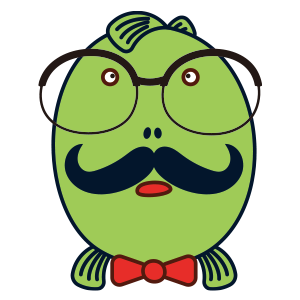
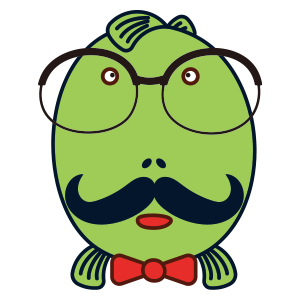
Site updated: 2022-08-09 19:37:23

diff --git a/index.html b/index.html
@@ -91,7 +91,9 @@
 			</div>
 			<div class="col-6">
 				<div class="d-flex justify-content-center">
-					<img class="w-75 h-auto lazyload" data-src="/images/genius.png" alt="大聪明">
+					<div class="w-75">
+						<img class="w-100 lazyload" data-src="/images/genius.png" alt="大聪明">
+					</div>
 				</div>
 			</div>
 		</div>
@@ -112,12 +114,12 @@
         
           <div class="col-3">
             <div class="card rounded bg-white">
-              <a href="//duoyu.wang">
+              <a target="_blank" rel="noopener" href="//wusheji.net/tobase64/">
                 <img class="card-img lazyload" data-src="/you/screenshots/to_base64.png" alt="">
               </a>
               <div class="card-body">
                 <h5 class="card-title">
-                  <a href="//duoyu.wang">
+                  <a target="_blank" rel="noopener" href="//wusheji.net/tobase64/">
                     To Base64
                   </a>
                 </h5>
@@ -141,6 +143,42 @@
                 </h5>
                 <div class="card-text text-gray">
                   企业免费建站主题
+                </div>
+              </div>
+            </div>
+          </div>
+        
+          <div class="col-3">
+            <div class="card rounded bg-white">
+              <a target="_blank" rel="noopener" href="//wusheji.net/colors/">
+                <img class="card-img lazyload" data-src="/you/screenshots/nice_colors.png" alt="">
+              </a>
+              <div class="card-body">
+                <h5 class="card-title">
+                  <a target="_blank" rel="noopener" href="//wusheji.net/colors/">
+                    Nice colors
+                  </a>
+                </h5>
+                <div class="card-text text-gray">
+                  Hopefully these colors will give you some inspiration.
+                </div>
+              </div>
+            </div>
+          </div>
+        
+          <div class="col-3">
+            <div class="card rounded bg-white">
+              <a target="_blank" rel="noopener" href="//wusheji.net/eatwhat/">
+                <img class="card-img lazyload" data-src="/you/screenshots/eatwhat.png" alt="">
+              </a>
+              <div class="card-body">
+                <h5 class="card-title">
+                  <a target="_blank" rel="noopener" href="//wusheji.net/eatwhat/">
+                    今天吃什么
+                  </a>
+                </h5>
+                <div class="card-text text-gray">
+                  解决上班族世纪难题，吃什么不用愁！
                 </div>
               </div>
             </div>

diff --git a/you/index.html b/you/index.html
@@ -91,12 +91,12 @@
     
       <div class="col-3">
   <div class="card rounded">
-    <a href="//duoyu.wang">
+    <a target="_blank" rel="noopener" href="//wusheji.net/tobase64/">
       <img class="card-img lazyload" data-src="/you/screenshots/to_base64.png" alt="">
     </a>
     <div class="card-body bg-light">
       <h5 class="card-title">
-        <a href="//duoyu.wang">
+        <a target="_blank" rel="noopener" href="//wusheji.net/tobase64/">
           To Base64
         </a>
       </h5>
@@ -120,6 +120,42 @@
       </h5>
       <div class="card-text text-gray">
         企业免费建站主题
+      </div>
+    </div>
+  </div>
+</div>
+    
+      <div class="col-3">
+  <div class="card rounded">
+    <a target="_blank" rel="noopener" href="//wusheji.net/colors/">
+      <img class="card-img lazyload" data-src="/you/screenshots/nice_colors.png" alt="">
+    </a>
+    <div class="card-body bg-light">
+      <h5 class="card-title">
+        <a target="_blank" rel="noopener" href="//wusheji.net/colors/">
+          Nice colors
+        </a>
+      </h5>
+      <div class="card-text text-gray">
+        Hopefully these colors will give you some inspiration.
+      </div>
+    </div>
+  </div>
+</div>
+    
+      <div class="col-3">
+  <div class="card rounded">
+    <a target="_blank" rel="noopener" href="//wusheji.net/eatwhat/">
+      <img class="card-img lazyload" data-src="/you/screenshots/eatwhat.png" alt="">
+    </a>
+    <div class="card-body bg-light">
+      <h5 class="card-title">
+        <a target="_blank" rel="noopener" href="//wusheji.net/eatwhat/">
+          今天吃什么
+        </a>
+      </h5>
+      <div class="card-text text-gray">
+        解决上班族世纪难题，吃什么不用愁！
       </div>
     </div>
   </div>

diff --git a/archives/2012/12/index.html b/archives/2012/12/index.html
@@ -106,7 +106,7 @@
       
   
     
-        <a class="card-img-link" href="/2012/12/21/yueyanglouji/" rel="gallery_cl6knh3460006b6wbb4acb4ca">
+        <a class="card-img-link" href="/2012/12/21/yueyanglouji/" rel="gallery_cl6m3yew20009r4u174ac7x04">
           <img class="card-img lazyload" data-src="/images/sample/mydesk.png" itemprop="image" alt="gallery">
         </a>
        
@@ -143,7 +143,7 @@
       
   
     
-        <a class="card-img-link" href="/2012/12/21/xiaoyaoyou/" rel="gallery_cl6knh3440005b6wb5amt7nfg">
+        <a class="card-img-link" href="/2012/12/21/xiaoyaoyou/" rel="gallery_cl6m3yew10008r4u1b0ppbtpn">
           <img class="card-img lazyload" data-src="/images/sample/mydesk.png" itemprop="image" alt="gallery">
         </a>
        
@@ -180,7 +180,7 @@
       
   
     
-        <a class="card-img-link" href="/2012/12/21/tengwanggexu/" rel="gallery_cl6knh3410003b6wb3pfdb25n">
+        <a class="card-img-link" href="/2012/12/21/tengwanggexu/" rel="gallery_cl6m3yevw0003r4u18he4cgc8">
           <img class="card-img lazyload" data-src="/images/sample/mydesk.png" itemprop="image" alt="gallery">
         </a>
        
@@ -217,7 +217,7 @@
       
   
     
-        <a class="card-img-link" href="/2012/12/21/lantingjixu/" rel="gallery_cl6knh33x0001b6wbe46v1pcd">
+        <a class="card-img-link" href="/2012/12/21/lantingjixu/" rel="gallery_cl6m3yevs0001r4u180936nlq">
           <img class="card-img lazyload" data-src="/images/sample/mydesk.png" itemprop="image" alt="gallery">
         </a>
        

diff --git a/archives/2012/index.html b/archives/2012/index.html
@@ -106,7 +106,7 @@
       
   
     
-        <a class="card-img-link" href="/2012/12/21/yueyanglouji/" rel="gallery_cl6knh3460006b6wbb4acb4ca">
+        <a class="card-img-link" href="/2012/12/21/yueyanglouji/" rel="gallery_cl6m3yew20009r4u174ac7x04">
           <img class="card-img lazyload" data-src="/images/sample/mydesk.png" itemprop="image" alt="gallery">
         </a>
        
@@ -143,7 +143,7 @@
       
   
     
-        <a class="card-img-link" href="/2012/12/21/xiaoyaoyou/" rel="gallery_cl6knh3440005b6wb5amt7nfg">
+        <a class="card-img-link" href="/2012/12/21/xiaoyaoyou/" rel="gallery_cl6m3yew10008r4u1b0ppbtpn">
           <img class="card-img lazyload" data-src="/images/sample/mydesk.png" itemprop="image" alt="gallery">
         </a>
        
@@ -180,7 +180,7 @@
       
   
     
-        <a class="card-img-link" href="/2012/12/21/tengwanggexu/" rel="gallery_cl6knh3410003b6wb3pfdb25n">
+        <a class="card-img-link" href="/2012/12/21/tengwanggexu/" rel="gallery_cl6m3yevw0003r4u18he4cgc8">
           <img class="card-img lazyload" data-src="/images/sample/mydesk.png" itemprop="image" alt="gallery">
         </a>
        
@@ -217,7 +217,7 @@
       
   
     
-        <a class="card-img-link" href="/2012/12/21/lantingjixu/" rel="gallery_cl6knh33x0001b6wbe46v1pcd">
+        <a class="card-img-link" href="/2012/12/21/lantingjixu/" rel="gallery_cl6m3yevs0001r4u180936nlq">
           <img class="card-img lazyload" data-src="/images/sample/mydesk.png" itemprop="image" alt="gallery">
         </a>
        

diff --git a/archives/index.html b/archives/index.html
@@ -106,7 +106,7 @@
       
   
     
-        <a class="card-img-link" href="/2012/12/21/yueyanglouji/" rel="gallery_cl6knh3460006b6wbb4acb4ca">
+        <a class="card-img-link" href="/2012/12/21/yueyanglouji/" rel="gallery_cl6m3yew20009r4u174ac7x04">
           <img class="card-img lazyload" data-src="/images/sample/mydesk.png" itemprop="image" alt="gallery">
         </a>
        
@@ -143,7 +143,7 @@
       
   
     
-        <a class="card-img-link" href="/2012/12/21/xiaoyaoyou/" rel="gallery_cl6knh3440005b6wb5amt7nfg">
+        <a class="card-img-link" href="/2012/12/21/xiaoyaoyou/" rel="gallery_cl6m3yew10008r4u1b0ppbtpn">
           <img class="card-img lazyload" data-src="/images/sample/mydesk.png" itemprop="image" alt="gallery">
         </a>
        
@@ -180,7 +180,7 @@
       
   
     
-        <a class="card-img-link" href="/2012/12/21/tengwanggexu/" rel="gallery_cl6knh3410003b6wb3pfdb25n">
+        <a class="card-img-link" href="/2012/12/21/tengwanggexu/" rel="gallery_cl6m3yevw0003r4u18he4cgc8">
           <img class="card-img lazyload" data-src="/images/sample/mydesk.png" itemprop="image" alt="gallery">
         </a>
        
@@ -217,7 +217,7 @@
       
   
     
-        <a class="card-img-link" href="/2012/12/21/lantingjixu/" rel="gallery_cl6knh33x0001b6wbe46v1pcd">
+        <a class="card-img-link" href="/2012/12/21/lantingjixu/" rel="gallery_cl6m3yevs0001r4u180936nlq">
           <img class="card-img lazyload" data-src="/images/sample/mydesk.png" itemprop="image" alt="gallery">
         </a>
        

diff --git a/tags/岳阳楼记/index.html b/tags/岳阳楼记/index.html
@@ -82,7 +82,7 @@
   <!-- page-type-slogan -->
   <h5 class="slogan font-w-lighter text-gray">
     
-    本站距离百年老站还差 99 年！
+    您实在是太精明了，一时间我竟无言以对。
     
   </h5>
 </div>
@@ -106,7 +106,7 @@
       
   
     
-        <a class="card-img-link" href="/2012/12/21/yueyanglouji/" rel="gallery_cl6knh3460006b6wbb4acb4ca">
+        <a class="card-img-link" href="/2012/12/21/yueyanglouji/" rel="gallery_cl6m3yew20009r4u174ac7x04">
           <img class="card-img lazyload" data-src="/images/sample/mydesk.png" itemprop="image" alt="gallery">
         </a>
        

diff --git a/tags/滕王阁序/index.html b/tags/滕王阁序/index.html
@@ -82,7 +82,7 @@
   <!-- page-type-slogan -->
   <h5 class="slogan font-w-lighter text-gray">
     
-    本站距离百年老站还差 99 年！
+    您实在是太精明了，一时间我竟无言以对。
     
   </h5>
 </div>
@@ -106,7 +106,7 @@
       
   
     
-        <a class="card-img-link" href="/2012/12/21/tengwanggexu/" rel="gallery_cl6knh3410003b6wb3pfdb25n">
+        <a class="card-img-link" href="/2012/12/21/tengwanggexu/" rel="gallery_cl6m3yevw0003r4u18he4cgc8">
           <img class="card-img lazyload" data-src="/images/sample/mydesk.png" itemprop="image" alt="gallery">
         </a>
        

diff --git a/tags/兰亭集序/index.html b/tags/兰亭集序/index.html
@@ -82,7 +82,7 @@
   <!-- page-type-slogan -->
   <h5 class="slogan font-w-lighter text-gray">
     
-    本站距离百年老站还差 99 年！
+    您实在是太精明了，一时间我竟无言以对。
     
   </h5>
 </div>
@@ -106,7 +106,7 @@
       
   
     
-        <a class="card-img-link" href="/2012/12/21/lantingjixu/" rel="gallery_cl6knh33x0001b6wbe46v1pcd">
+        <a class="card-img-link" href="/2012/12/21/lantingjixu/" rel="gallery_cl6m3yevs0001r4u180936nlq">
           <img class="card-img lazyload" data-src="/images/sample/mydesk.png" itemprop="image" alt="gallery">
         </a>
        

diff --git a/tags/逍遥游/index.html b/tags/逍遥游/index.html
@@ -82,7 +82,7 @@
   <!-- page-type-slogan -->
   <h5 class="slogan font-w-lighter text-gray">
     
-    本站距离百年老站还差 99 年！
+    您实在是太精明了，一时间我竟无言以对。
     
   </h5>
 </div>
@@ -106,7 +106,7 @@
       
   
     
-        <a class="card-img-link" href="/2012/12/21/xiaoyaoyou/" rel="gallery_cl6knh3440005b6wb5amt7nfg">
+        <a class="card-img-link" href="/2012/12/21/xiaoyaoyou/" rel="gallery_cl6m3yew10008r4u1b0ppbtpn">
           <img class="card-img lazyload" data-src="/images/sample/mydesk.png" itemprop="image" alt="gallery">
         </a>
        
